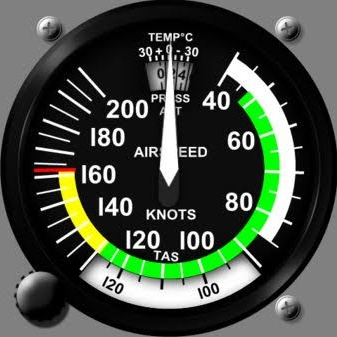
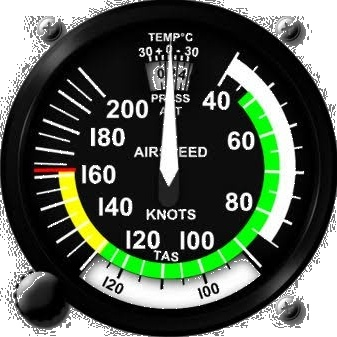
style(learning): retain anemometer image with seamless pure white background in slides 2.1 and 2.2

diff --git a/src/features/learning/content/c172-course-data.ts b/src/features/learning/content/c172-course-data.ts
@@ -656,22 +656,22 @@ export const C172_LESSON_2 = {
       </div>
     </div>
 
-    <!-- Columna Derecha (lg:col-span-5): Imagen en blanco (Altura Fija 590px) -->
+    <!-- Columna Derecha (lg:col-span-5): Anemómetro Oficial C172 (Altura Fija 590px) -->
     <div class="lg:col-span-5 flex flex-col">
       <div class="h-[590px] flex flex-col justify-between p-2.5 rounded-2xl bg-[#F8FAFC] dark:bg-slate-900/90 border-2 border-slate-200 dark:border-slate-800 shadow-xs" style="height: 590px;">
         <div class="space-y-2 flex-1 min-h-0 flex flex-col">
           <div class="flex items-center justify-between shrink-0 pb-1 border-b border-slate-200 dark:border-slate-800">
-            <span class="font-bold text-[#0B2E59] dark:text-sky-300 uppercase tracking-wider text-xs sm:text-sm">📷 MATERIAL GRÁFICO</span>
+            <span class="font-bold text-[#0B2E59] dark:text-sky-300 uppercase tracking-wider text-xs sm:text-sm">🎛 VELOCIDADES INDICADAS Y CALIBRADAS</span>
           </div>
 
-          <div class="w-full flex-1 min-h-0 rounded-xl border-2 border-dashed border-sky-300 dark:border-sky-700/60 bg-sky-50/50 dark:bg-sky-950/20 flex flex-col items-center justify-center p-6 text-center my-auto">
-            <div class="w-12 h-12 rounded-2xl bg-sky-100 dark:bg-sky-900/40 text-sky-600 dark:text-sky-400 flex items-center justify-center text-2xl shadow-xs mb-2.5">
-              📷
-            </div>
-            <span class="text-[10px] font-bold uppercase tracking-wider text-sky-700 dark:text-sky-400 mb-1">Imagen en Blanco / Pendiente</span>
-            <p class="text-xs sm:text-sm font-semibold text-slate-700 dark:text-slate-200 max-w-xs leading-snug">
-              Envolvente o diagrama de velocidades de la célula C172
+          <div class="w-full shrink-0 flex flex-col items-start justify-start rounded-xl bg-white dark:bg-slate-800/80 p-2.5 border border-slate-200 dark:border-slate-700/80 shadow-2xs">
+            <p class="text-xs text-slate-700 dark:text-slate-200 leading-relaxed font-medium">
+              El anemómetro presenta lecturas en <strong>KIAS</strong> (Knots Indicated Airspeed). Las velocidades en <strong>KCAS</strong> corrigen los errores de instalación y posición del tubo Pitot en los distintos ángulos de ataque.
             </p>
+          </div>
+
+          <div class="w-full flex-1 min-h-0 rounded-xl overflow-hidden border border-slate-200 dark:border-slate-700/80 shadow-xs bg-white dark:bg-white flex items-center justify-center p-2">
+            <img src="/images/c172/anemometro-final.jpg" alt="Anemómetro oficial Cessna 172 calibrado en nudos" class="w-full h-full max-h-[380px] object-contain rounded-lg" />
           </div>
         </div>
       </div>
@@ -750,22 +750,22 @@ export const C172_LESSON_2 = {
       </div>
     </div>
 
-    <!-- Columna Derecha (lg:col-span-5): Imagen en blanco (Altura Fija 590px) -->
+    <!-- Columna Derecha (lg:col-span-5): Anemómetro Oficial C172 (Altura Fija 590px) -->
     <div class="lg:col-span-5 flex flex-col">
       <div class="h-[590px] flex flex-col justify-between p-2.5 rounded-2xl bg-[#F8FAFC] dark:bg-slate-900/90 border-2 border-slate-200 dark:border-slate-800 shadow-xs" style="height: 590px;">
         <div class="space-y-2 flex-1 min-h-0 flex flex-col">
           <div class="flex items-center justify-between shrink-0 pb-1 border-b border-slate-200 dark:border-slate-800">
-            <span class="font-bold text-[#0B2E59] dark:text-sky-300 uppercase tracking-wider text-xs sm:text-sm">📷 MATERIAL GRÁFICO</span>
+            <span class="font-bold text-[#0B2E59] dark:text-sky-300 uppercase tracking-wider text-xs sm:text-sm">🎛 ANEMÓMETRO C172 (CALIBRADO EN KNOTS)</span>
           </div>
 
-          <div class="w-full flex-1 min-h-0 rounded-xl border-2 border-dashed border-sky-300 dark:border-sky-700/60 bg-sky-50/50 dark:bg-sky-950/20 flex flex-col items-center justify-center p-6 text-center my-auto">
-            <div class="w-12 h-12 rounded-2xl bg-sky-100 dark:bg-sky-900/40 text-sky-600 dark:text-sky-400 flex items-center justify-center text-2xl shadow-xs mb-2.5">
-              📷
-            </div>
-            <span class="text-[10px] font-bold uppercase tracking-wider text-sky-700 dark:text-sky-400 mb-1">Imagen en Blanco / Pendiente</span>
-            <p class="text-xs sm:text-sm font-semibold text-slate-700 dark:text-slate-200 max-w-xs leading-snug">
-              Fotografía de carátula o indicador de velocidad anemométrica en cabina
+          <div class="w-full shrink-0 flex flex-col items-start justify-start rounded-xl bg-white dark:bg-slate-800/80 p-2.5 border border-slate-200 dark:border-slate-700/80 shadow-2xs">
+            <p class="text-xs text-slate-700 dark:text-slate-200 leading-relaxed font-medium">
+              Indicador de velocidad anemométrica de la célula Cessna 172 con anillo móvil exterior de True Airspeed (TAS) y franjas de limitación reglamentaria de colores.
             </p>
+          </div>
+
+          <div class="w-full flex-1 min-h-0 rounded-xl overflow-hidden border border-slate-200 dark:border-slate-700/80 shadow-xs bg-white dark:bg-white flex items-center justify-center p-2">
+            <img src="/images/c172/anemometro-final.jpg" alt="Anemómetro oficial Cessna 172 con arcos de colores" class="w-full h-full max-h-[380px] object-contain rounded-lg" />
           </div>
         </div>
       </div>
